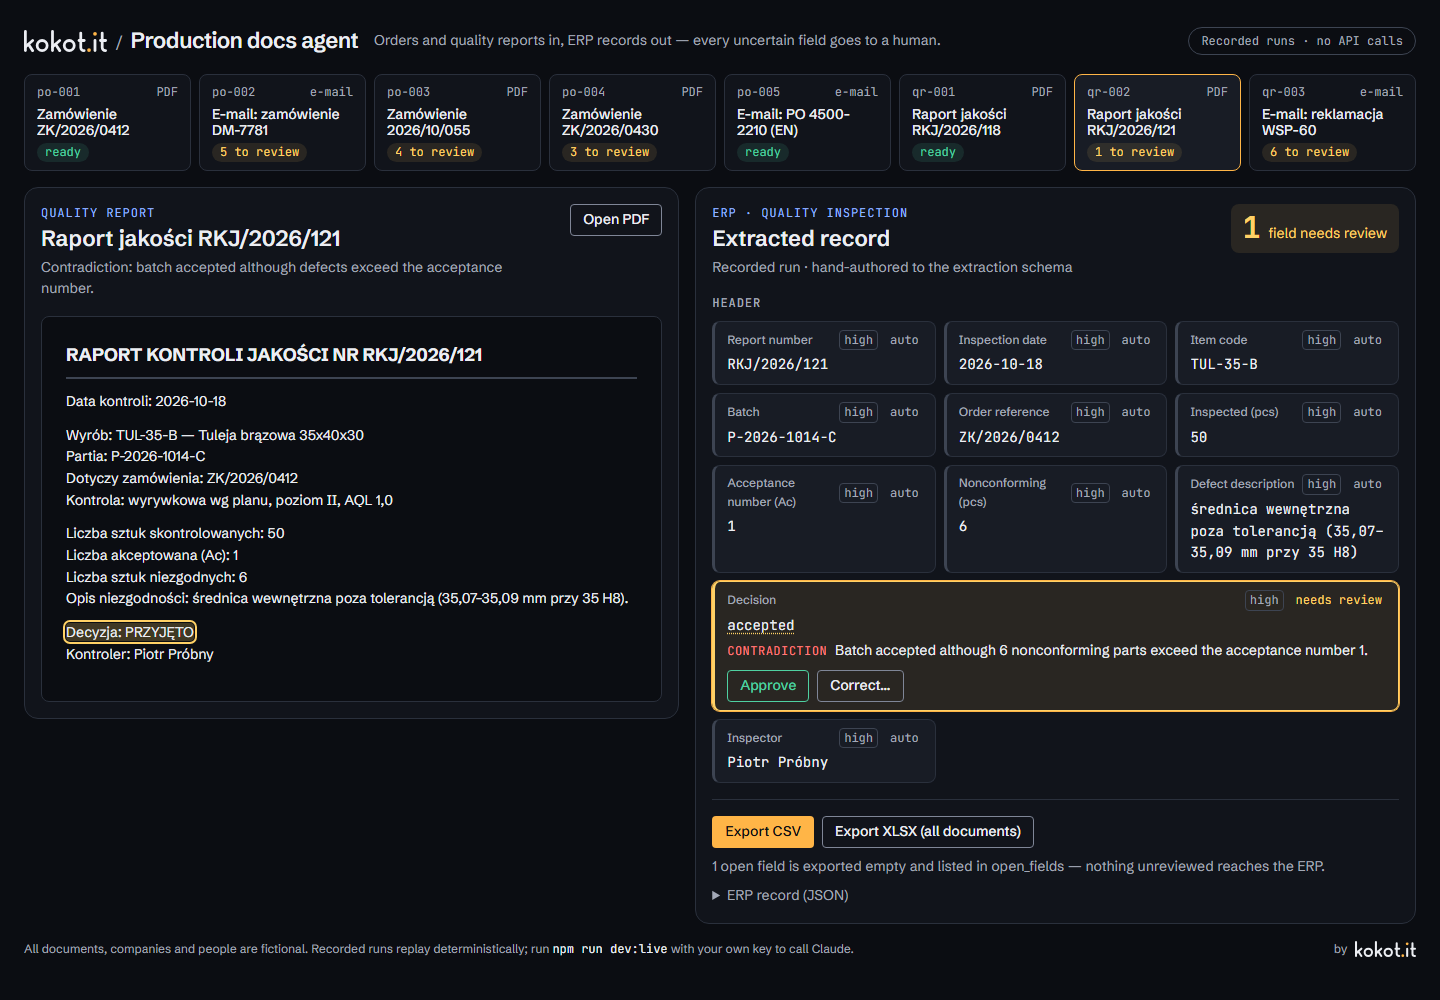
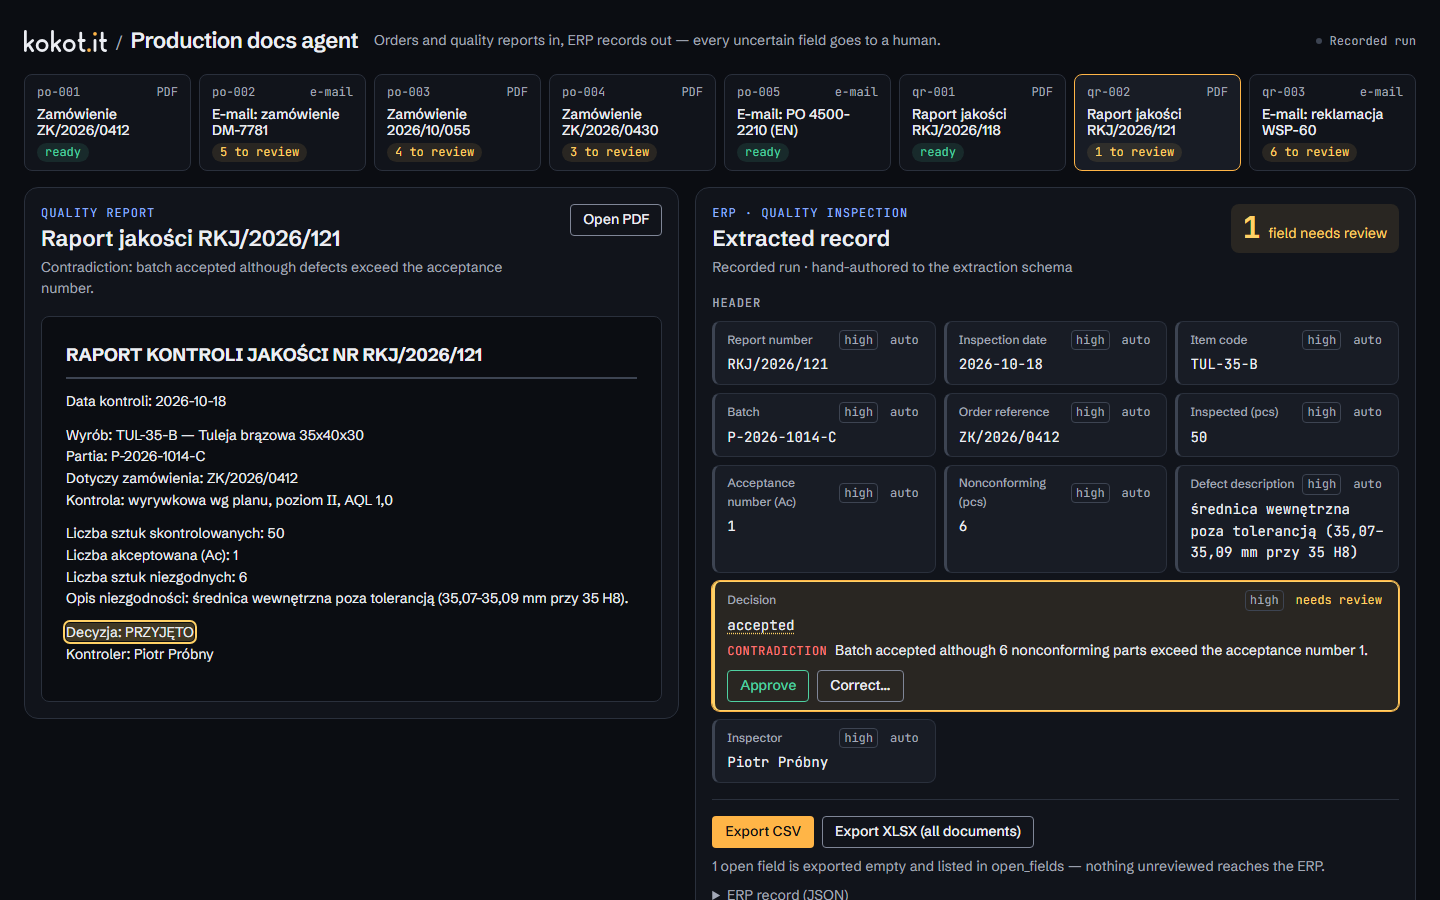
feat(ui): discreet mode label, sample-data note and kokot.it footer

Changed region(s): [[0.0, 0.0311, 1.0, 1.0], [0.7188, 0.0311, 1.0, 0.28], [0.5938, 0.5289, 0.625, 0.56]]

diff --git a/e2e/app.e2e.ts b/e2e/app.e2e.ts
@@ -153,19 +153,25 @@ describe('review flow (recorded mode)', () => {
     expect(errors).toEqual([]);
   });
 
-  it('hides the header and footer when embedded', async () => {
+  it('hides the header when embedded but keeps the sample-data note', async () => {
     await page.goto(`${base}?embed=1&doc=qr-002`);
     await expect
       .poll(() => field('Decision').getAttribute('aria-label'))
       .toBe('Decision: needs review');
     expect(await page.locator('.topbar').isVisible()).toBe(false);
-    expect(await page.locator('.foot').isVisible()).toBe(false);
+    expect(await page.locator('.foot').textContent()).toContain('Sample data');
   });
 
-  it('shows the header outside the embed', async () => {
+  it('shows the header, mode and footer outside the embed', async () => {
     await page.goto(`${base}?doc=po-001`);
     await expect.poll(() => page.locator('.topbar').isVisible()).toBe(true);
+    expect(await page.locator('.mode').textContent()).toBe('Recorded run');
     expect(await page.locator('.summary').textContent()).toContain('ready for ERP');
+    const credit = page.getByRole('link', { name: '© 2026 kokot.it' });
+    expect(await credit.getAttribute('href')).toBe('https://kokot.it');
+    expect(await page.locator('.foot').textContent()).toContain(
+      'Sample data · fictional companies',
+    );
   });
 });
 
@@ -174,7 +180,7 @@ describe('embedding on another site (the README snippet)', () => {
   const readme = readFileSync('README.md', 'utf8');
   const sandbox = /<iframe[\s\S]*?sandbox="([^"]+)"/.exec(readme)?.[1];
   // The host page is served by a real local server on another origin (127.0.0.1 vs localhost),
-  // like kokot.it framing /demos/…: a routed fake page counts as a public origin to Chromium's
+  // like kokot.it framing the app under a sub-path: a routed fake page counts as a public origin to Chromium's
   // Local Network Access check, which would block the frame before the CORS behaviour under test.
   let hostServer: Server;
   let hostUrl: string;
@@ -184,7 +190,7 @@ describe('embedding on another site (the README snippet)', () => {
     hostServer = createServer((_req, res) => {
       res.setHeader('Content-Type', 'text/html; charset=utf-8');
       res.end(`<!doctype html><html><body>
-        <iframe id="demo" src="${base}?embed=1&doc=po-002" title="Production docs agent — demo"
+        <iframe id="app-frame" src="${base}?embed=1&doc=po-002" title="Production docs agent"
           style="width:1000px;height:600px;border:0" sandbox="${sandboxAttr}"></iframe>
         <script>
           window.heights = [];
@@ -199,11 +205,11 @@ describe('embedding on another site (the README snippet)', () => {
 
   afterAll(() => new Promise<void>((resolve) => hostServer.close(() => resolve())));
 
-  /** Opens the host page, which embeds the built demo with the given sandbox attribute. */
+  /** Opens the host page, which embeds the built app with the given sandbox attribute. */
   async function embedOnHost(sandboxValue: string) {
     sandboxAttr = sandboxValue;
     await page.goto(hostUrl);
-    return page.frameLocator('#demo');
+    return page.frameLocator('#app-frame');
   }
 
   it('stays empty without allow-same-origin (the bug the README snippet must avoid)', async () => {
@@ -213,7 +219,7 @@ describe('embedding on another site (the README snippet)', () => {
     expect(errors.join(' | ')).toMatch(/from origin 'null' has been blocked by CORS/);
   });
 
-  it('renders the demo inside an iframe with the documented sandbox', async () => {
+  it('renders the app inside an iframe with the documented sandbox', async () => {
     expect(sandbox).toBeDefined();
     const frame = await embedOnHost(sandbox!);
     await expect
@@ -234,7 +240,7 @@ describe('embedding on another site (the README snippet)', () => {
 
   it('documents a sandbox that keeps the frame same-origin with its own assets', () => {
     // Without allow-same-origin the frame's origin is "null" and Vite's crossorigin assets are
-    // blocked by CORS: the frame stays empty (reproduced in the fresh-session review).
+    // blocked by CORS: the frame stays empty (reproduced in a browser).
     expect(sandbox?.split(/\s+/)).toEqual(
       expect.arrayContaining([
         'allow-scripts',

diff --git a/src/ui/app.ts b/src/ui/app.ts
@@ -1,4 +1,4 @@
-import { DOCUMENTS, findDocument, type DemoDocument } from '../documents/catalog.ts';
+import { DOCUMENTS, findDocument, type SampleDocument } from '../documents/catalog.ts';
 import { documentText, recordedRun } from '../documents/browser.ts';
 import { renderDocumentHtml } from '../documents/render.ts';
 import {
@@ -47,7 +47,7 @@ interface State {
 }
 
 interface View {
-  doc: DemoDocument;
+  doc: SampleDocument;
   run: Recording;
   items: ReviewItem[];
   fields: ResolvedField[];
@@ -183,8 +183,13 @@ export function startApp(root: HTMLElement, initialDocId: string | null): void {
       ),
       h(
         'span',
-        { class: `mode mode-${LIVE ? 'live' : 'recorded'}` },
-        LIVE ? 'Live · Claude API' : 'Recorded runs · no API calls',
+        {
+          class: `mode mode-${LIVE ? 'live' : 'recorded'}`,
+          title: LIVE
+            ? 'Extractions call the Claude API from the local server.'
+            : 'Replays saved extractions. No API calls.',
+        },
+        LIVE ? 'Live (Claude API)' : 'Recorded run',
       ),
     );
   }
@@ -192,7 +197,7 @@ export function startApp(root: HTMLElement, initialDocId: string | null): void {
   function tabs(): HTMLElement {
     return h(
       'nav',
-      { class: 'doc-tabs', 'aria-label': 'Demo documents' },
+      { class: 'doc-tabs', 'aria-label': 'Sample documents' },
       ...DOCUMENTS.map((d) => {
         const v = viewOf(d.id);
         const open = v.record.review.open_fields.length;
@@ -370,7 +375,8 @@ export function startApp(root: HTMLElement, initialDocId: string | null): void {
   function fieldRow(f: ResolvedField, item: ReviewItem, items: ReviewItem[]): HTMLElement {
     const editing = state.editing === f.path;
     const shown = f.status === 'needs_review' ? f.proposed : f.value;
-    const label = f.label.replace(/^Line \d+ · /, '');
+    const short = f.label.replace(/^Line \d+ · /, '');
+    const label = short.charAt(0).toUpperCase() + short.slice(1);
     const conf = item.field.confidence;
     const children: (HTMLElement | null)[] = [
       h(
@@ -673,18 +679,11 @@ export function startApp(root: HTMLElement, initialDocId: string | null): void {
     return h(
       'footer',
       { class: 'foot' },
-      h(
-        'p',
-        {},
-        'All documents, companies and people are fictional. Recorded runs replay deterministically; run ',
-        h('code', {}, 'npm run dev:live'),
-        ' with your own key to call Claude.',
-      ),
+      h('p', { class: 'foot-note' }, 'Sample data · fictional companies'),
       h(
         'a',
         { class: 'by', href: 'https://kokot.it', target: '_blank', rel: 'noopener' },
-        h('span', {}, 'by'),
-        h('img', { src: logoUrl, alt: 'kokot.it' }),
+        '© 2026 kokot.it',
       ),
     );
   }

diff --git a/src/styles/app.css b/src/styles/app.css
@@ -79,17 +79,25 @@ pre {
 }
 
 .mode {
+  display: inline-flex;
+  align-items: center;
+  gap: var(--space-2);
   font-family: var(--font-mono);
   font-size: var(--text-xs);
-  padding: var(--space-1) var(--space-3);
-  border-radius: var(--radius-pill);
-  border: 1px solid var(--color-line-strong);
   color: var(--color-text-muted);
+  white-space: nowrap;
 }
 
-.mode-live {
-  border-color: var(--color-accent);
-  color: var(--color-accent);
+.mode::before {
+  content: '';
+  width: 6px;
+  height: 6px;
+  border-radius: 50%;
+  background: var(--color-line-strong);
+}
+
+.mode-live::before {
+  background: var(--color-accent);
 }
 
 /* ---- document tabs ---- */
@@ -596,23 +604,11 @@ pre {
 }
 
 .by {
-  display: inline-flex;
-  align-items: center;
-  gap: var(--space-2);
   color: var(--color-text-muted);
   text-decoration: none;
 }
 
-.by img {
-  height: var(--text-base);
-  width: auto;
-}
-
 .by:hover {
-  color: var(--color-text);
-}
-
-.foot code {
   color: var(--color-text);
 }
 
@@ -621,8 +617,7 @@ pre {
   padding: var(--space-3);
 }
 
-.embed .topbar,
-.embed .foot {
+.embed .topbar {
   display: none;
 }
 
@@ -651,6 +646,16 @@ pre {
 
   .paper {
     max-height: 50vh;
+  }
+}
+
+@media (max-width: 480px) {
+  .pane {
+    padding: var(--space-3);
+  }
+
+  .paper {
+    padding: var(--space-3);
   }
 }
 

diff --git a/scripts/screenshots.ts b/scripts/screenshots.ts
@@ -16,7 +16,7 @@ async function main(): Promise<void> {
   if (!base) throw new Error('Preview server did not report a URL.');
   const browser = await chromium.launch();
   try {
-    const page = await browser.newPage({ viewport: { width: 1440, height: 1000 } });
+    const page = await browser.newPage({ viewport: { width: 1440, height: 900 } });
     const open = async (query: string) => {
       await page.goto(`${base}?${query}`);
       await page.waitForSelector('.field');
@@ -51,11 +51,16 @@ async function main(): Promise<void> {
     await page.waitForTimeout(400);
     await page.screenshot({ path: `${OUT}/human-decisions-po-002.png` });
 
-    const mobile = await browser.newPage({ viewport: { width: 390, height: 844 } });
+    const mobile = await browser.newPage({ viewport: { width: 375, height: 812 } });
     await mobile.goto(`${base}?embed=1&doc=po-003`);
     await mobile.waitForSelector('.field');
     await mobile.evaluate(() => document.fonts.ready);
     await mobile.screenshot({ path: `${OUT}/embed-mobile-po-003.png` });
+
+    await mobile.goto(`${base}?doc=po-002`);
+    await mobile.waitForSelector('.field');
+    await mobile.evaluate(() => document.fonts.ready);
+    await mobile.screenshot({ path: `${OUT}/mobile-po-002.png` });
 
     console.info(`screenshots written to ${OUT}/`);
   } finally {

diff --git a/index.html b/index.html
@@ -3,7 +3,12 @@
   <head>
     <meta charset="UTF-8" />
     <meta name="viewport" content="width=device-width, initial-scale=1.0" />
-    <title>Production docs agent — demo</title>
+    <meta
+      name="description"
+      content="An AI agent that reads purchase orders and quality reports and fills ERP records. Every uncertain field goes to a human."
+    />
+    <meta name="theme-color" content="#0b0d12" />
+    <title>Production docs agent · kokot.it</title>
   </head>
   <body>
     <div id="app"></div>
